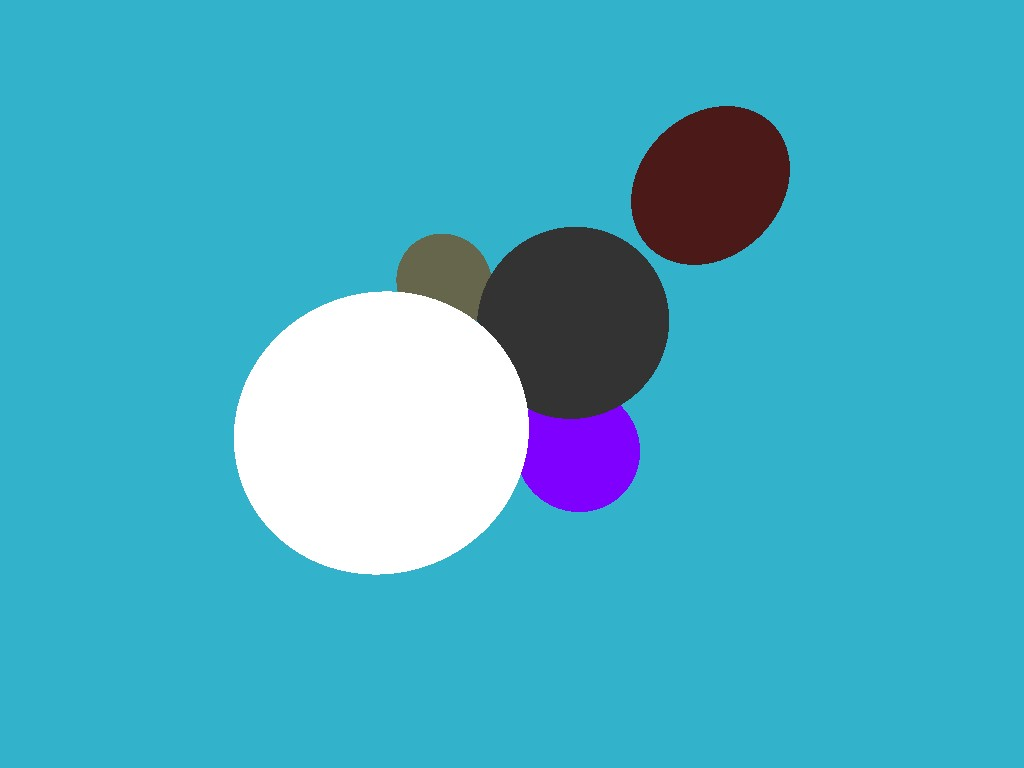
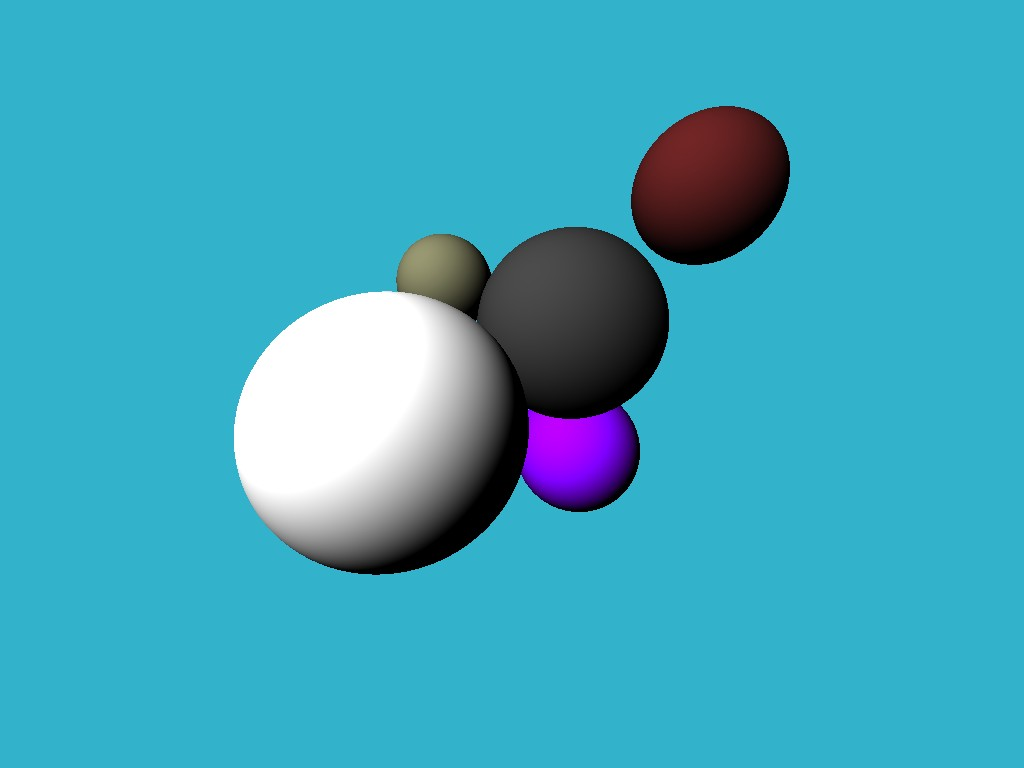
lights and shadow

Changed region(s): [[0.25, 0.1562, 0.7812, 0.75], [0.625, 0.125, 0.7188, 0.25], [0.2188, 0.625, 0.25, 0.6562]]

diff --git a/src/Program.cs b/src/Program.cs
@@ -34,7 +34,7 @@ namespace raytracer
             return spheres_dist < 1000;
         }
 
-        static Vec3f CastRay(Vec3f origin, Vec3f dir, List<Sphere> spheres)
+        static Vec3f CastRay(Vec3f origin, Vec3f dir, List<Sphere> spheres, List<Light> lights)
         {
             Vec3f point = new Vec3f();
             Vec3f N = new Vec3f();
@@ -44,10 +44,17 @@ namespace raytracer
             {
                 return new Vec3f(0.2f, 0.7f, 0.8f);
             }
-            return material.diffuse_color;
+
+            float diffuse_light_intensity = 0;
+            for (int i = 0; i < lights.Count; i++)
+            {
+                Vec3f light_dir = (lights[i].position - point).Normalize();
+                diffuse_light_intensity += lights[i].intensity * Math.Max(0f, light_dir * N);
+            }
+            return material.diffuse_color * diffuse_light_intensity;
         }
 
-        static void Render(List<Sphere> spheres)
+        static void Render(List<Sphere> spheres, List<Light> lights)
         {
             const int width = 1024;
             const int height = 768;
@@ -63,7 +70,7 @@ namespace raytracer
                     Vec3f dir = new Vec3f(x, y, -1);
                     dir = dir.Normalize();
 
-                    framebuffer[i + j * width] = CastRay(new Vec3f(0, 0, 0), dir, spheres);
+                    framebuffer[i + j * width] = CastRay(new Vec3f(0, 0, 0), dir, spheres, lights);
                 }
             }
 
@@ -103,7 +110,12 @@ namespace raytracer
                 new Sphere(new Vec3f(4, -4, -24), 3.8f, amethyst),
             };
 
-            Render(spheres);
+            List<Light> lights = new List<Light>
+            {
+                new Light(new Vec3f(-20, 20, 20), 1.5f)
+            };
+
+            Render(spheres, lights);
         }
     } 
 }

diff --git a/src/Geometry.cs b/src/Geometry.cs
@@ -249,6 +249,18 @@ namespace raytracer
         }
     }
 
+    public struct Light
+    {
+        public Vec3f position;
+        public float intensity;
+
+        public Light(Vec3f p, float i)
+        {
+            position = p;
+            intensity = i;
+        }
+    }
+
     public struct Sphere
     {
         public Vec3f center;

diff --git a/README.md b/README.md
@@ -14,6 +14,8 @@ This project is a learning exercise to understand raytracing fundamentals by con
 - custom 3D math vector (Vec2f, Vec3f, Vec3i, Vec4f).
 - operator overloading of vector operations (dot product, scalar multiplication).
 - single sphere rendered.
+- more sphere added with different materials
+- lighting and shadow to the spheres
 
 ## How to Run
 
